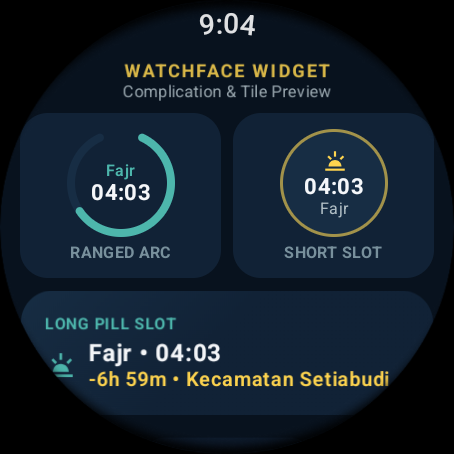
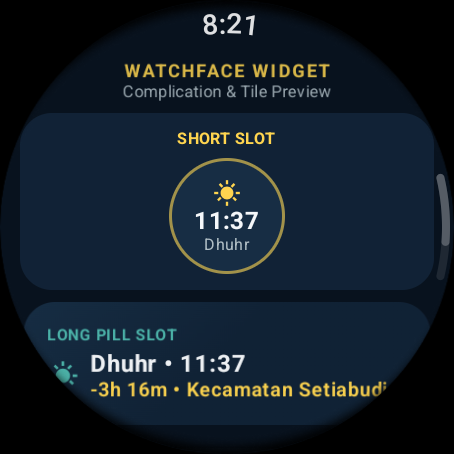
refactor(wear): remove progress bar from watchface widget

diff --git a/wear/src/main/java/com/smiledev/rafiq_quran/wear/ui/widget/WearWatchfaceWidgetScreen.kt b/wear/src/main/java/com/smiledev/rafiq_quran/wear/ui/widget/WearWatchfaceWidgetScreen.kt
@@ -40,7 +40,6 @@ import androidx.wear.compose.foundation.lazy.rememberScalingLazyListState
 import androidx.wear.compose.material.Card
 import androidx.wear.compose.material.CardDefaults
 import androidx.wear.compose.material.ChipDefaults
-import androidx.wear.compose.material.CircularProgressIndicator
 import androidx.wear.compose.material.CompactChip
 import androidx.wear.compose.material.Icon
 import androidx.wear.compose.material.PositionIndicator
@@ -120,108 +119,52 @@ fun WearWatchfaceWidgetScreen(
                 }
             }
 
-            // Watchface Complication Slots Preview (Ranged Arc + Short Text)
+            // Short Text Watchface Complication Slot Preview
             item {
-                Row(
-                    modifier = Modifier.fillMaxWidth(),
-                    horizontalArrangement = Arrangement.spacedBy(6.dp, Alignment.CenterHorizontally),
-                    verticalAlignment = Alignment.CenterVertically
+                Column(
+                    horizontalAlignment = Alignment.CenterHorizontally,
+                    modifier = Modifier
+                        .fillMaxWidth()
+                        .background(WearColors.SurfaceDark, RoundedCornerShape(16.dp))
+                        .padding(vertical = 8.dp, horizontal = 10.dp)
                 ) {
-                    // Ranged Value Complication Slot
-                    Column(
-                        horizontalAlignment = Alignment.CenterHorizontally,
+                    Text(
+                        text = stringResource(R.string.wear_complication_short),
+                        fontSize = 8.sp,
+                        fontWeight = FontWeight.Bold,
+                        color = WearColors.GoldAccent
+                    )
+                    Spacer(modifier = Modifier.height(5.dp))
+                    Box(
+                        contentAlignment = Alignment.Center,
                         modifier = Modifier
-                            .weight(1f)
-                            .background(WearColors.SurfaceDark, RoundedCornerShape(14.dp))
-                            .padding(vertical = 8.dp, horizontal = 4.dp)
+                            .size(58.dp)
+                            .border(1.5.dp, WearColors.GoldAccent.copy(alpha = 0.6f), CircleShape)
+                            .background(WearColors.SurfaceCard, CircleShape)
                     ) {
-                        Box(
-                            contentAlignment = Alignment.Center,
-                            modifier = Modifier.size(54.dp)
+                        Column(
+                            horizontalAlignment = Alignment.CenterHorizontally
                         ) {
-                            CircularProgressIndicator(
-                                progress = 0.68f,
-                                modifier = Modifier.fillMaxSize(),
-                                startAngle = 295f,
-                                endAngle = 245f,
-                                indicatorColor = WearColors.TealBright,
-                                trackColor = WearColors.SurfaceCard,
-                                strokeWidth = 4.dp
+                            Icon(
+                                painter = painterResource(id = iconRes),
+                                contentDescription = nextName,
+                                tint = WearColors.GoldAccent,
+                                modifier = Modifier.size(14.dp)
                             )
-                            Column(
-                                horizontalAlignment = Alignment.CenterHorizontally
-                            ) {
-                                Text(
-                                    text = nextName.take(5),
-                                    fontSize = 8.sp,
-                                    fontWeight = FontWeight.SemiBold,
-                                    color = WearColors.TealBright,
-                                    maxLines = 1
-                                )
-                                Text(
-                                    text = nextTime,
-                                    fontSize = 11.sp,
-                                    fontWeight = FontWeight.Bold,
-                                    color = WearColors.TextPrimary,
-                                    maxLines = 1
-                                )
-                            }
+                            Text(
+                                text = nextTime,
+                                fontSize = 12.sp,
+                                fontWeight = FontWeight.Bold,
+                                color = WearColors.TextPrimary,
+                                maxLines = 1
+                            )
+                            Text(
+                                text = nextName.take(6),
+                                fontSize = 8.sp,
+                                color = WearColors.TextSecondary,
+                                maxLines = 1
+                            )
                         }
-                        Spacer(modifier = Modifier.height(3.dp))
-                        Text(
-                            text = stringResource(R.string.wear_complication_ranged),
-                            fontSize = 8.sp,
-                            fontWeight = FontWeight.Bold,
-                            color = WearColors.TextMuted
-                        )
-                    }
-
-                    // Short Text Complication Slot
-                    Column(
-                        horizontalAlignment = Alignment.CenterHorizontally,
-                        modifier = Modifier
-                            .weight(1f)
-                            .background(WearColors.SurfaceDark, RoundedCornerShape(14.dp))
-                            .padding(vertical = 8.dp, horizontal = 4.dp)
-                    ) {
-                        Box(
-                            contentAlignment = Alignment.Center,
-                            modifier = Modifier
-                                .size(54.dp)
-                                .border(1.5.dp, WearColors.GoldAccent.copy(alpha = 0.6f), CircleShape)
-                                .background(WearColors.SurfaceCard, CircleShape)
-                        ) {
-                            Column(
-                                horizontalAlignment = Alignment.CenterHorizontally
-                            ) {
-                                Icon(
-                                    painter = painterResource(id = iconRes),
-                                    contentDescription = nextName,
-                                    tint = WearColors.GoldAccent,
-                                    modifier = Modifier.size(13.dp)
-                                )
-                                Text(
-                                    text = nextTime,
-                                    fontSize = 11.sp,
-                                    fontWeight = FontWeight.Bold,
-                                    color = WearColors.TextPrimary,
-                                    maxLines = 1
-                                )
-                                Text(
-                                    text = nextName.take(6),
-                                    fontSize = 8.sp,
-                                    color = WearColors.TextSecondary,
-                                    maxLines = 1
-                                )
-                            }
-                        }
-                        Spacer(modifier = Modifier.height(3.dp))
-                        Text(
-                            text = stringResource(R.string.wear_complication_short),
-                            fontSize = 8.sp,
-                            fontWeight = FontWeight.Bold,
-                            color = WearColors.TextMuted
-                        )
                     }
                 }
             }

diff --git a/wear/src/main/java/com/smiledev/rafiq_quran/wear/widget/WearNextPrayerComplicationService.kt b/wear/src/main/java/com/smiledev/rafiq_quran/wear/widget/WearNextPrayerComplicationService.kt
@@ -9,7 +9,6 @@ import androidx.wear.watchface.complications.data.ComplicationType
 import androidx.wear.watchface.complications.data.LongTextComplicationData
 import androidx.wear.watchface.complications.data.MonochromaticImage
 import androidx.wear.watchface.complications.data.PlainComplicationText
-import androidx.wear.watchface.complications.data.RangedValueComplicationData
 import androidx.wear.watchface.complications.data.ShortTextComplicationData
 import androidx.wear.watchface.complications.datasource.ComplicationRequest
 import androidx.wear.watchface.complications.datasource.SuspendingComplicationDataSourceService
@@ -98,20 +97,6 @@ class WearNextPrayerComplicationService : SuspendingComplicationDataSourceServic
                                 "-${snapshot.countdown} • ${snapshot.cityName}"
                             ).build()
                         )
-                        .setMonochromaticImage(monoImage)
-                        .setTapAction(tapAction)
-                        .build()
-                }
-
-                ComplicationType.RANGED_VALUE -> {
-                    RangedValueComplicationData.Builder(
-                        value = snapshot.progressPercent.coerceIn(0f, 100f),
-                        min = 0f,
-                        max = 100f,
-                        contentDescription = descriptionText
-                    )
-                        .setTitle(PlainComplicationText.Builder(snapshot.nextPrayerName).build())
-                        .setText(PlainComplicationText.Builder(snapshot.nextPrayerTime).build())
                         .setMonochromaticImage(monoImage)
                         .setTapAction(tapAction)
                         .build()

diff --git a/wear/src/main/java/com/smiledev/rafiq_quran/wear/widget/WearNextPrayerWidgetModel.kt b/wear/src/main/java/com/smiledev/rafiq_quran/wear/widget/WearNextPrayerWidgetModel.kt
@@ -35,7 +35,6 @@ data class WearNextPrayerSnapshot(
     val previousPrayerName: String,
     val previousPrayerTime: String,
     val countdown: String,
-    val progressPercent: Float,
     val cityName: String,
     val calculationMethodName: String,
     val hijriDate: String,
@@ -90,23 +89,12 @@ object WearNextPrayerCalculator {
         val nextDef = defs[resolvedNextIndex]
         val prevDef = defs[resolvedPrevIndex]
         val nextMinutes = parsedMinutes[resolvedNextIndex]
-        val prevMinutes = parsedMinutes[resolvedPrevIndex]
 
         val diffMinutes = if (wrapsToTomorrowFajr || nextMinutes <= nowMinutes) {
             (24 * 60 - nowMinutes) + nextMinutes
         } else {
             nextMinutes - nowMinutes
         }.coerceAtLeast(1)
-
-        val totalWindowMinutes = if (resolvedNextIndex == 0) {
-            (24 * 60 - prevMinutes) + nextMinutes
-        } else {
-            (nextMinutes - prevMinutes).coerceAtLeast(1)
-        }.coerceAtLeast(1)
-
-        val elapsedMinutes = (totalWindowMinutes - diffMinutes).coerceIn(0, totalWindowMinutes)
-        val progressPercent = ((elapsedMinutes.toFloat() / totalWindowMinutes.toFloat()) * 100f)
-            .coerceIn(0f, 100f)
 
         val hours = diffMinutes / 60
         val mins = diffMinutes % 60
@@ -137,7 +125,6 @@ object WearNextPrayerCalculator {
             previousPrayerName = prevLocalizedName,
             previousPrayerTime = prevDef.rawTime,
             countdown = countdown,
-            progressPercent = progressPercent,
             cityName = resolvedCity,
             calculationMethodName = getMethodDisplayName(calculationMethod),
             hijriDate = data.hijriDate.orEmpty(),

diff --git a/wear/src/test/java/com/smiledev/rafiq_quran/wear/widget/WearNextPrayerWidgetTest.kt b/wear/src/test/java/com/smiledev/rafiq_quran/wear/widget/WearNextPrayerWidgetTest.kt
@@ -26,7 +26,7 @@ class WearNextPrayerWidgetTest {
     )
 
     @Test
-    fun `computeSnapshot resolves upcoming Maghrib and progress before sunset`() {
+    fun `computeSnapshot resolves upcoming Maghrib before sunset`() {
         val now = Calendar.getInstance().apply {
             set(Calendar.DAY_OF_WEEK, Calendar.MONDAY)
             set(Calendar.HOUR_OF_DAY, 16)
@@ -50,7 +50,6 @@ class WearNextPrayerWidgetTest {
         assertEquals("Jakarta", snapshot.cityName)
         assertEquals("KEMENAG", snapshot.calculationMethodName)
         assertEquals(R.drawable.ic_prayer_maghrib, snapshot.iconResId)
-        assertTrue(snapshot.progressPercent in 50f..60f)
 
         val maghribItem = snapshot.schedule.first { it.key == "maghrib" }
         assertTrue(maghribItem.isNext)
@@ -79,7 +78,6 @@ class WearNextPrayerWidgetTest {
         assertEquals("Isya", snapshot.previousPrayerName)
         assertEquals("7h 20m", snapshot.countdown)
         assertEquals(R.drawable.ic_prayer_fajr, snapshot.iconResId)
-        assertTrue(snapshot.progressPercent in 20f..25f)
     }
 
     @Test

diff --git a/README.md b/README.md
@@ -82,7 +82,7 @@ Go to the [Releases](https://github.com/suryamudti/rafiq-android/releases) secti
 | **ℹ App & Architecture Info** | Shared multiplatform system overview, KMP layer information, and release details. |
 | **📚 Sources & Authenticity** | Full attribution and authenticity details for Quranic text, translations, hadith collections, and prayer time calculations. |
 | **🔔 Notifications** | Background prayer alarm notifications scheduled via WorkManager. |
-| **⌚ Wear OS App (`:wear`)** | Standalone watch companion featuring Watch Face Complications (`SHORT_TEXT`, `LONG_TEXT`, `RANGED_VALUE`), a Next Prayer Wear OS Tile, real-time prayer countdown, auto-enabled prayer time alarm notifications, 114 Surahs offline reader, and rotation vector sensor Qibla compass. |
+| **⌚ Wear OS App (`:wear`)** | Standalone watch companion featuring Watch Face Complications (`SHORT_TEXT`, `LONG_TEXT`), a Next Prayer Wear OS Tile, real-time prayer countdown, auto-enabled prayer time alarm notifications, 114 Surahs offline reader, and rotation vector sensor Qibla compass. |
 | **📺 Android TV App (`:tv`)** | Standalone 10-foot Masjid & Home Ambient Display featuring a live digital clock, Gregorian & Hijri dates, next-prayer hero countdown, 8 daily prayer cards (Imsak–Isha), Adhan time alert banner & exact alarm notifications, D-pad city & calculation method switchers, and rotating Quranic verses. |
 | **⚙ Settings & Updates** | Language preference (Bahasa Indonesia / English), theme mode, dashboard customization, and in-app update checking via GitHub Releases & Google Play. |
 
@@ -212,7 +212,7 @@ graph TD
 ### Wear OS App (`:wear`)
 
 The `:wear` module delivers a standalone Wear OS experience optimized for round watch displays, bezel interaction, and glanceable worship utilities:
-- **Watchface Complications & Next Prayer Tile**: Watch face complication data source (`WearNextPrayerComplicationService`) supporting `SHORT_TEXT`, `LONG_TEXT`, and `RANGED_VALUE` progress arcs, plus a swipeable Wear OS Tile (`WearNextPrayerTileService`) and in-app Watchface Widget Preview & Sync screen (`WearWatchfaceWidgetScreen`).
+- **Watchface Complications & Next Prayer Tile**: Watch face complication data source (`WearNextPrayerComplicationService`) supporting `SHORT_TEXT` and `LONG_TEXT` slots, plus a swipeable Wear OS Tile (`WearNextPrayerTileService`) and in-app Watchface Widget Preview & Sync screen (`WearWatchfaceWidgetScreen`).
 - **Wear Prayer Times**: Next prayer hero card with live countdown, Hijri date, and 8 daily prayer times (Imsak, Subuh, Syuruq, Dhuha, Dzuhur, Ashar, Maghrib, Isya) in a Rotary/Crown scrollable `ScalingLazyColumn`.
 - **Wear Al-Qur'an Reader**: All 114 Surahs with revelation filter (Makkiyah/Madaniyah), Last Read quick-resume chip, Uthmani Arabic script (`me_quran.ttf`), and EN/ID translation toggle.
 - **Wear Qibla Compass**: Circular watch bezel compass using rotation vector sensor with Kaaba pointer, alignment indicator (±3° tolerance with haptic cue), and Mecca distance.
